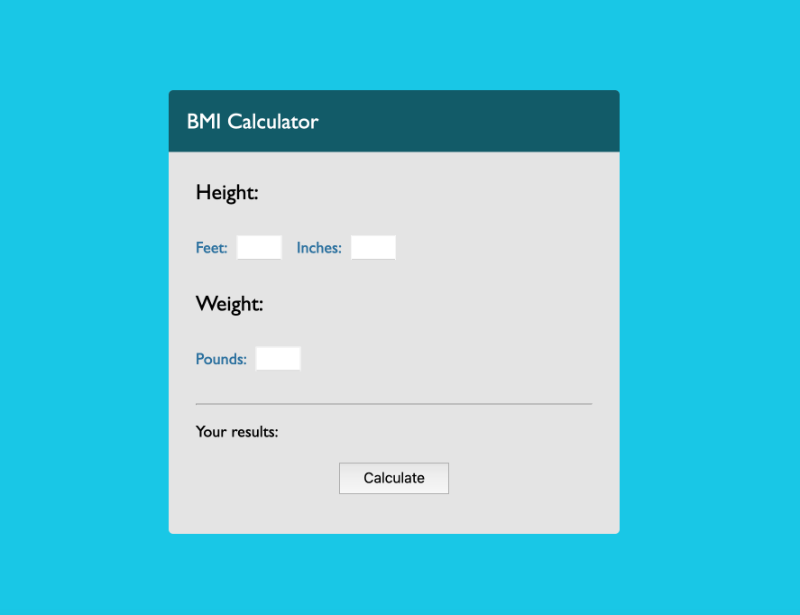
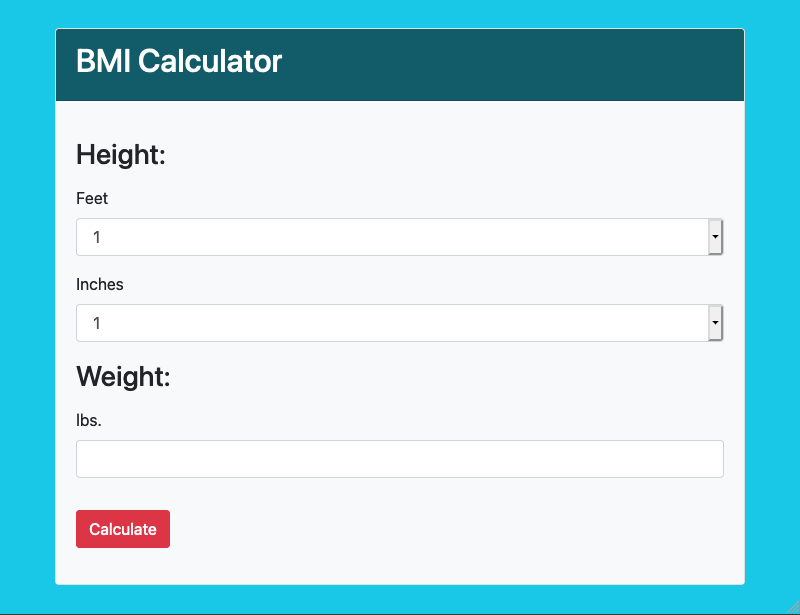
update project photos and descriptions

diff --git a/index.html b/index.html
@@ -91,7 +91,8 @@
                 <a href="https://cameroncolburn.github.io/random-quote-generator/" target="_blank"><img
                         src='img/projects/random-quote-screenshot.png' alt='random quote generator'></a>
                 <h3>Random Quote Generator</h3>
-                <p>By clicking the button the user is treated to a randomly selected quote from someone memoriable.</p>
+                <p>Designed with the Bootstrap framework and Javascript, the user is treated to a randomly selected
+                    quote from someone memoriable.</p>
                 <a href="https://cameroncolburn.github.io/random-quote-generator/" class="preview-btn"
                     target="_blank">Preview</a>
                 <a href="https://github.com/cameroncolburn/random-quote-generator" class="code-btn" target="_blank">See
@@ -102,8 +103,8 @@
                     target="_blank"><img src='img/projects/fibonacci-generator.png'
                         alt='fibonacci sequence generator'></a>
                 <h3>Fibonacci Generator</h3>
-                <p>The user is prompted to enter a number, after which the program outputs a fibonacci sequence to the
-                    length specified by the user.</p>
+                <p>A fibonacci sequence generated using Javascript and displayed using Bootstrap grid for fluid
+                    responsiveness on all screen sizes. </p>
                 <a href="https://cameroncolburn.github.io/fibonacci-sequence-generator/" class="preview-btn"
                     target="_blank">Preview</a>
                 <a href="https://github.com/cameroncolburn/fibonacci-sequence-generator" class="code-btn"
@@ -113,8 +114,8 @@
             <section class="project-tile"><a href="https://cameroncolburn.github.io/bmi-calculator/"
                     target="_blank"><img src='img/projects/bmi-calculator-screenshot.png' alt='bmi calculator'></a>
                 <h3>BMI Calculator</h3>
-                <p>A BMI calculator. User inputs their height and weight and is given an output that assesses their BMI
-                    based on CDC guidelines.</p>
+                <p>The user submits their info using standard form inputs with Javascript used to calculate and display
+                    the results in a Bootstrap modal.</p>
                 <a href="https://cameroncolburn.github.io/bmi-calculator/" class="preview-btn"
                     target="_blank">Preview</a>
                 <a href="https://github.com/cameroncolburn/bmi-calculator" class="code-btn" target="_blank">See Code</a>
